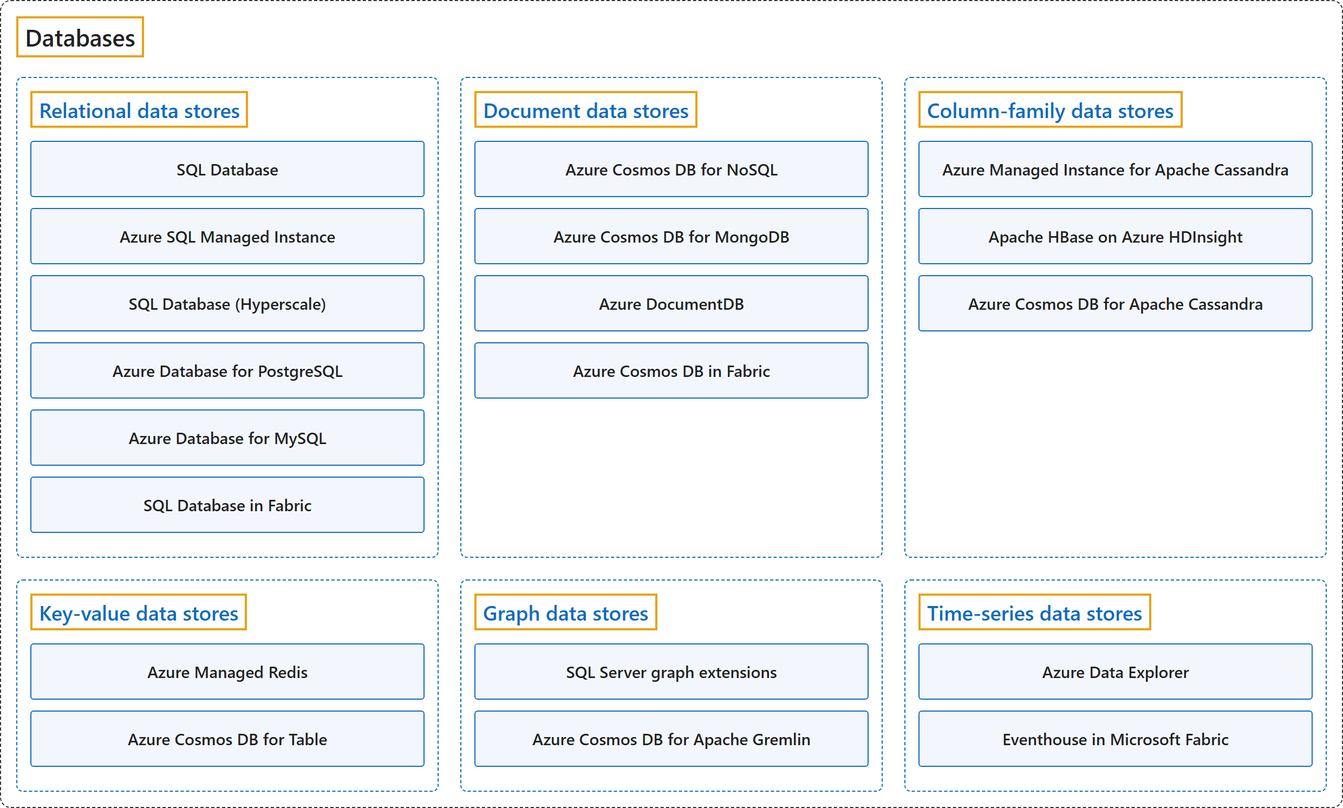
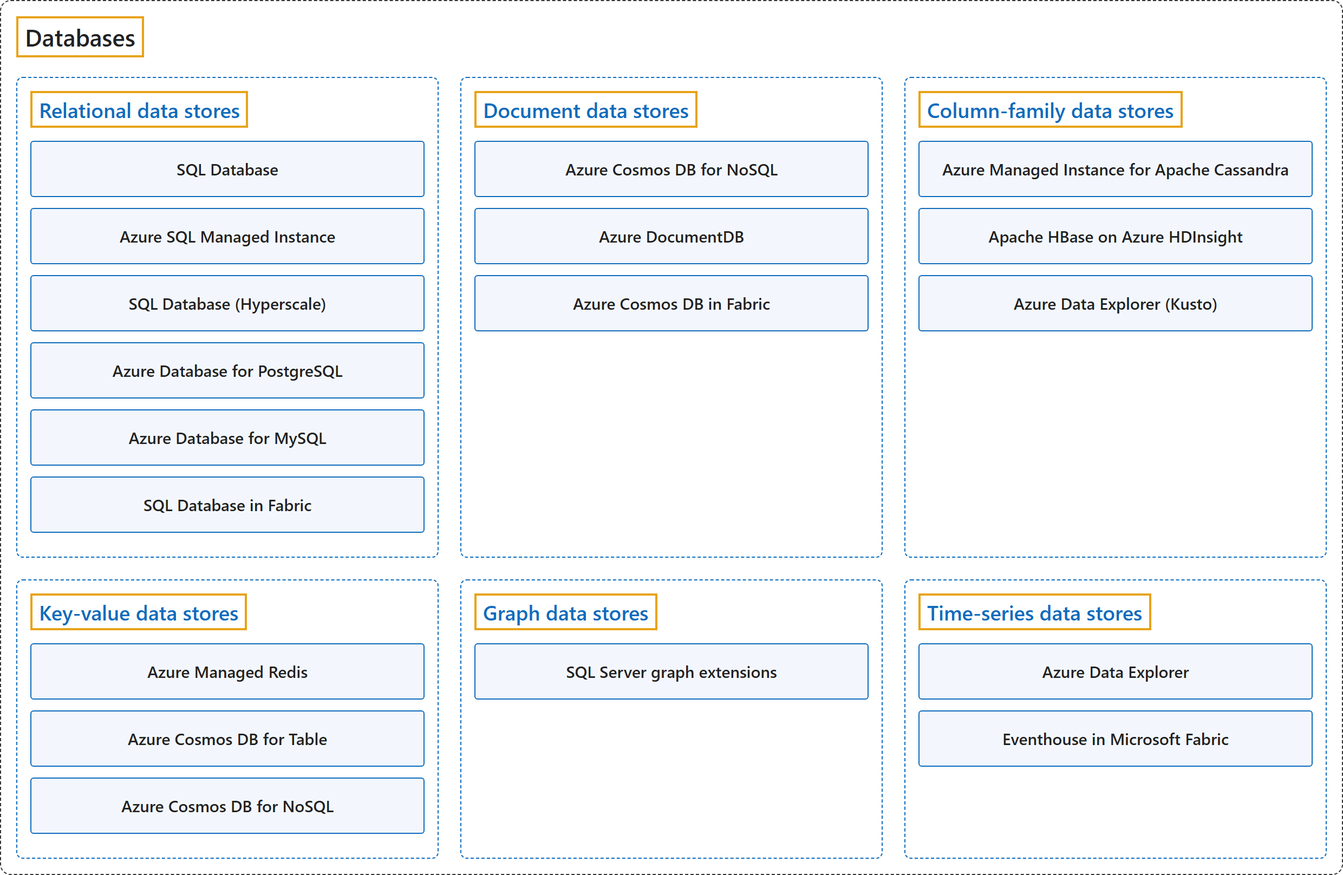
feat(azure): 9.1-9.6 Databases from the current Understand data models guide; Overview figure and README follow its service lists

diff --git a/figures/cloud/azure/databases/relational-data-stores.html b/figures/cloud/azure/databases/relational-data-stores.html
@@ -1,0 +1,28 @@
+<!doctype html>
+<html><head><meta charset="utf-8">
+<style>
+  body { margin: 0; background: #fff; font-family: "Segoe UI", sans-serif; }
+  .frame { display: inline-block; margin: 2px; padding: 14px 14px 14px; border: 1.5px dashed #333; border-radius: 10px; }
+  .title { display: inline-block; border: 2px solid #e8a317; padding: 2px 6px; font-size: 22px; font-weight: 600; color: #222; margin-bottom: 18px; }
+  .row { display: flex; gap: 14px; align-items: stretch; }
+  .frame > .col { width: 330px; gap: 0; }
+  .col { display: flex; flex-direction: column; gap: 14px; }
+  .col .group { flex: 1 0 auto; }
+  .group { min-width: 330px; border: 1.5px dashed #0f6cbd; border-radius: 6px; padding: 12px; box-sizing: border-box; }
+  .group .title { white-space: nowrap; color: #0f6cbd; font-size: 19px; margin-bottom: 12px; }
+  .item { border: 2px solid #e8a317; background: #f3f7fd; border-radius: 3px; height: 34px; margin-bottom: 8px;
+          display: flex; align-items: center; justify-content: center; font-size: 14px; font-weight: 600; text-align: center; padding: 0 6px; color: #222; }
+</style></head>
+<body>
+<div class="frame" id="fig">
+  <div class="title">Relational data stores</div>
+  <div class="col">
+    <div class="item">SQL Database</div>
+    <div class="item">Azure SQL Managed Instance</div>
+    <div class="item">SQL Database (Hyperscale)</div>
+    <div class="item">Azure Database for PostgreSQL</div>
+    <div class="item">Azure Database for MySQL</div>
+    <div class="item">SQL Database in Fabric</div>
+  </div>
+</div>
+</body></html>

diff --git a/figures/cloud/azure/databases/column-family-data-stores.html b/figures/cloud/azure/databases/column-family-data-stores.html
@@ -1,0 +1,25 @@
+<!doctype html>
+<html><head><meta charset="utf-8">
+<style>
+  body { margin: 0; background: #fff; font-family: "Segoe UI", sans-serif; }
+  .frame { display: inline-block; margin: 2px; padding: 14px 14px 14px; border: 1.5px dashed #333; border-radius: 10px; }
+  .title { display: inline-block; border: 2px solid #e8a317; padding: 2px 6px; font-size: 22px; font-weight: 600; color: #222; margin-bottom: 18px; }
+  .row { display: flex; gap: 14px; align-items: stretch; }
+  .frame > .col { width: 330px; gap: 0; }
+  .col { display: flex; flex-direction: column; gap: 14px; }
+  .col .group { flex: 1 0 auto; }
+  .group { min-width: 330px; border: 1.5px dashed #0f6cbd; border-radius: 6px; padding: 12px; box-sizing: border-box; }
+  .group .title { white-space: nowrap; color: #0f6cbd; font-size: 19px; margin-bottom: 12px; }
+  .item { border: 2px solid #e8a317; background: #f3f7fd; border-radius: 3px; height: 34px; margin-bottom: 8px;
+          display: flex; align-items: center; justify-content: center; font-size: 14px; font-weight: 600; text-align: center; padding: 0 6px; color: #222; }
+</style></head>
+<body>
+<div class="frame" id="fig">
+  <div class="title">Column-family data stores</div>
+  <div class="col">
+    <div class="item">Azure Managed Instance for Apache Cassandra</div>
+    <div class="item">Apache HBase on Azure HDInsight</div>
+    <div class="item">Azure Data Explorer (Kusto)</div>
+  </div>
+</div>
+</body></html>

diff --git a/figures/cloud/azure/databases/key-value-data-stores.html b/figures/cloud/azure/databases/key-value-data-stores.html
@@ -1,0 +1,25 @@
+<!doctype html>
+<html><head><meta charset="utf-8">
+<style>
+  body { margin: 0; background: #fff; font-family: "Segoe UI", sans-serif; }
+  .frame { display: inline-block; margin: 2px; padding: 14px 14px 14px; border: 1.5px dashed #333; border-radius: 10px; }
+  .title { display: inline-block; border: 2px solid #e8a317; padding: 2px 6px; font-size: 22px; font-weight: 600; color: #222; margin-bottom: 18px; }
+  .row { display: flex; gap: 14px; align-items: stretch; }
+  .frame > .col { width: 330px; gap: 0; }
+  .col { display: flex; flex-direction: column; gap: 14px; }
+  .col .group { flex: 1 0 auto; }
+  .group { min-width: 330px; border: 1.5px dashed #0f6cbd; border-radius: 6px; padding: 12px; box-sizing: border-box; }
+  .group .title { white-space: nowrap; color: #0f6cbd; font-size: 19px; margin-bottom: 12px; }
+  .item { border: 2px solid #e8a317; background: #f3f7fd; border-radius: 3px; height: 34px; margin-bottom: 8px;
+          display: flex; align-items: center; justify-content: center; font-size: 14px; font-weight: 600; text-align: center; padding: 0 6px; color: #222; }
+</style></head>
+<body>
+<div class="frame" id="fig">
+  <div class="title">Key-value data stores</div>
+  <div class="col">
+    <div class="item">Azure Managed Redis</div>
+    <div class="item">Azure Cosmos DB for Table</div>
+    <div class="item">Azure Cosmos DB for NoSQL</div>
+  </div>
+</div>
+</body></html>

diff --git a/figures/cloud/azure/databases/document-data-stores.html b/figures/cloud/azure/databases/document-data-stores.html
@@ -1,0 +1,25 @@
+<!doctype html>
+<html><head><meta charset="utf-8">
+<style>
+  body { margin: 0; background: #fff; font-family: "Segoe UI", sans-serif; }
+  .frame { display: inline-block; margin: 2px; padding: 14px 14px 14px; border: 1.5px dashed #333; border-radius: 10px; }
+  .title { display: inline-block; border: 2px solid #e8a317; padding: 2px 6px; font-size: 22px; font-weight: 600; color: #222; margin-bottom: 18px; }
+  .row { display: flex; gap: 14px; align-items: stretch; }
+  .frame > .col { width: 330px; gap: 0; }
+  .col { display: flex; flex-direction: column; gap: 14px; }
+  .col .group { flex: 1 0 auto; }
+  .group { min-width: 330px; border: 1.5px dashed #0f6cbd; border-radius: 6px; padding: 12px; box-sizing: border-box; }
+  .group .title { white-space: nowrap; color: #0f6cbd; font-size: 19px; margin-bottom: 12px; }
+  .item { border: 2px solid #e8a317; background: #f3f7fd; border-radius: 3px; height: 34px; margin-bottom: 8px;
+          display: flex; align-items: center; justify-content: center; font-size: 14px; font-weight: 600; text-align: center; padding: 0 6px; color: #222; }
+</style></head>
+<body>
+<div class="frame" id="fig">
+  <div class="title">Document data stores</div>
+  <div class="col">
+    <div class="item">Azure Cosmos DB for NoSQL</div>
+    <div class="item">Azure DocumentDB</div>
+    <div class="item">Azure Cosmos DB in Fabric</div>
+  </div>
+</div>
+</body></html>

diff --git a/figures/cloud/azure/databases/time-series-data-stores.html b/figures/cloud/azure/databases/time-series-data-stores.html
@@ -1,0 +1,24 @@
+<!doctype html>
+<html><head><meta charset="utf-8">
+<style>
+  body { margin: 0; background: #fff; font-family: "Segoe UI", sans-serif; }
+  .frame { display: inline-block; margin: 2px; padding: 14px 14px 14px; border: 1.5px dashed #333; border-radius: 10px; }
+  .title { display: inline-block; border: 2px solid #e8a317; padding: 2px 6px; font-size: 22px; font-weight: 600; color: #222; margin-bottom: 18px; }
+  .row { display: flex; gap: 14px; align-items: stretch; }
+  .frame > .col { width: 330px; gap: 0; }
+  .col { display: flex; flex-direction: column; gap: 14px; }
+  .col .group { flex: 1 0 auto; }
+  .group { min-width: 330px; border: 1.5px dashed #0f6cbd; border-radius: 6px; padding: 12px; box-sizing: border-box; }
+  .group .title { white-space: nowrap; color: #0f6cbd; font-size: 19px; margin-bottom: 12px; }
+  .item { border: 2px solid #e8a317; background: #f3f7fd; border-radius: 3px; height: 34px; margin-bottom: 8px;
+          display: flex; align-items: center; justify-content: center; font-size: 14px; font-weight: 600; text-align: center; padding: 0 6px; color: #222; }
+</style></head>
+<body>
+<div class="frame" id="fig">
+  <div class="title">Time-series data stores</div>
+  <div class="col">
+    <div class="item">Azure Data Explorer</div>
+    <div class="item">Eventhouse in Microsoft Fabric</div>
+  </div>
+</div>
+</body></html>

diff --git a/figures/cloud/azure/databases/graph-data-stores.html b/figures/cloud/azure/databases/graph-data-stores.html
@@ -1,0 +1,23 @@
+<!doctype html>
+<html><head><meta charset="utf-8">
+<style>
+  body { margin: 0; background: #fff; font-family: "Segoe UI", sans-serif; }
+  .frame { display: inline-block; margin: 2px; padding: 14px 14px 14px; border: 1.5px dashed #333; border-radius: 10px; }
+  .title { display: inline-block; border: 2px solid #e8a317; padding: 2px 6px; font-size: 22px; font-weight: 600; color: #222; margin-bottom: 18px; }
+  .row { display: flex; gap: 14px; align-items: stretch; }
+  .frame > .col { width: 330px; gap: 0; }
+  .col { display: flex; flex-direction: column; gap: 14px; }
+  .col .group { flex: 1 0 auto; }
+  .group { min-width: 330px; border: 1.5px dashed #0f6cbd; border-radius: 6px; padding: 12px; box-sizing: border-box; }
+  .group .title { white-space: nowrap; color: #0f6cbd; font-size: 19px; margin-bottom: 12px; }
+  .item { border: 2px solid #e8a317; background: #f3f7fd; border-radius: 3px; height: 34px; margin-bottom: 8px;
+          display: flex; align-items: center; justify-content: center; font-size: 14px; font-weight: 600; text-align: center; padding: 0 6px; color: #222; }
+</style></head>
+<body>
+<div class="frame" id="fig">
+  <div class="title">Graph data stores</div>
+  <div class="col">
+    <div class="item">SQL Server graph extensions</div>
+  </div>
+</div>
+</body></html>

diff --git a/figures/cloud/azure/databases/databases.html b/figures/cloud/azure/databases/databases.html
@@ -32,7 +32,6 @@
       <div class="group">
         <div class="title">Document data stores</div>
         <div class="item">Azure Cosmos DB for NoSQL</div>
-        <div class="item">Azure Cosmos DB for MongoDB</div>
         <div class="item">Azure DocumentDB</div>
         <div class="item">Azure Cosmos DB in Fabric</div>
       </div>
@@ -42,7 +41,7 @@
         <div class="title">Column-family data stores</div>
         <div class="item">Azure Managed Instance for Apache Cassandra</div>
         <div class="item">Apache HBase on Azure HDInsight</div>
-        <div class="item">Azure Cosmos DB for Apache Cassandra</div>
+        <div class="item">Azure Data Explorer (Kusto)</div>
       </div>
     </div>
   </div>
@@ -52,13 +51,13 @@
         <div class="title">Key-value data stores</div>
         <div class="item">Azure Managed Redis</div>
         <div class="item">Azure Cosmos DB for Table</div>
+        <div class="item">Azure Cosmos DB for NoSQL</div>
       </div>
     </div>
     <div class="col">
       <div class="group">
         <div class="title">Graph data stores</div>
         <div class="item">SQL Server graph extensions</div>
-        <div class="item">Azure Cosmos DB for Apache Gremlin</div>
       </div>
     </div>
     <div class="col">

diff --git a/docs/cloud/azure/databases/README.md b/docs/cloud/azure/databases/README.md
@@ -7,10 +7,10 @@ Follows `../README.md`. Figure on `index.md`: classification (see `../README.md`
 | No. | File | Title (group name in the figure) | Sources | Allowed sections (the groups of the sub-page figure, in figure order) |
 |---|---|---|---|---|
 | 9.1 | `relational-data-stores.md` | Relational data stores | [Understand data models: Relational data stores](https://learn.microsoft.com/en-us/azure/architecture/data-guide/technology-choices/understand-data-store-models#relational-data-stores) | 9.1.1 SQL Database, 9.1.2 Azure SQL Managed Instance, 9.1.3 SQL Database (Hyperscale), 9.1.4 Azure Database for PostgreSQL, 9.1.5 Azure Database for MySQL, 9.1.6 SQL Database in Fabric |
-| 9.2 | `document-data-stores.md` | Document data stores | [Understand data models: Document data stores](https://learn.microsoft.com/en-us/azure/architecture/data-guide/technology-choices/understand-data-store-models#document-data-stores-); [Azure Cosmos DB overview](https://learn.microsoft.com/en-us/azure/cosmos-db/overview) | 9.2.1 Azure Cosmos DB for NoSQL, 9.2.2 Azure Cosmos DB for MongoDB, 9.2.3 Azure DocumentDB, 9.2.4 Azure Cosmos DB in Fabric |
-| 9.3 | `column-family-data-stores.md` | Column-family data stores | [Understand data models: Column-family data stores](https://learn.microsoft.com/en-us/azure/architecture/data-guide/technology-choices/understand-data-store-models#column-family-data-stores-); [Azure Cosmos DB overview](https://learn.microsoft.com/en-us/azure/cosmos-db/overview) | 9.3.1 Azure Managed Instance for Apache Cassandra, 9.3.2 Apache HBase on Azure HDInsight, 9.3.3 Azure Cosmos DB for Apache Cassandra |
-| 9.4 | `key-value-data-stores.md` | Key-value data stores | [Understand data models: Key-value data stores](https://learn.microsoft.com/en-us/azure/architecture/data-guide/technology-choices/understand-data-store-models#key-value-data-stores-) | 9.4.1 Azure Managed Redis, 9.4.2 Azure Cosmos DB for Table |
-| 9.5 | `graph-data-stores.md` | Graph data stores | [Understand data models: Graph data stores](https://learn.microsoft.com/en-us/azure/architecture/data-guide/technology-choices/understand-data-store-models#graph-data-stores-); [Azure Cosmos DB overview](https://learn.microsoft.com/en-us/azure/cosmos-db/overview) | 9.5.1 SQL Server graph extensions, 9.5.2 Azure Cosmos DB for Apache Gremlin |
+| 9.2 | `document-data-stores.md` | Document data stores | [Understand data models: Document data stores](https://learn.microsoft.com/en-us/azure/architecture/data-guide/technology-choices/understand-data-store-models#document-data-stores-); [Azure Cosmos DB overview](https://learn.microsoft.com/en-us/azure/cosmos-db/overview) | 9.2.1 Azure Cosmos DB for NoSQL, 9.2.2 Azure DocumentDB, 9.2.3 Azure Cosmos DB in Fabric |
+| 9.3 | `column-family-data-stores.md` | Column-family data stores | [Understand data models: Column-family data stores](https://learn.microsoft.com/en-us/azure/architecture/data-guide/technology-choices/understand-data-store-models#column-family-data-stores-); [Azure Cosmos DB overview](https://learn.microsoft.com/en-us/azure/cosmos-db/overview) | 9.3.1 Azure Managed Instance for Apache Cassandra, 9.3.2 Apache HBase on Azure HDInsight, 9.3.3 Azure Data Explorer (Kusto) |
+| 9.4 | `key-value-data-stores.md` | Key-value data stores | [Understand data models: Key-value data stores](https://learn.microsoft.com/en-us/azure/architecture/data-guide/technology-choices/understand-data-store-models#key-value-data-stores-) | 9.4.1 Azure Managed Redis, 9.4.2 Azure Cosmos DB for Table, 9.4.3 Azure Cosmos DB for NoSQL |
+| 9.5 | `graph-data-stores.md` | Graph data stores | [Understand data models: Graph data stores](https://learn.microsoft.com/en-us/azure/architecture/data-guide/technology-choices/understand-data-store-models#graph-data-stores-); [Azure Cosmos DB overview](https://learn.microsoft.com/en-us/azure/cosmos-db/overview) | 9.5.1 SQL Server graph extensions |
 | 9.6 | `time-series-data-stores.md` | Time-series data stores | [Understand data models: Time-series data stores](https://learn.microsoft.com/en-us/azure/architecture/data-guide/technology-choices/understand-data-store-models#time-series-data-stores-) | 9.6.1 Azure Data Explorer, 9.6.2 Eventhouse in Microsoft Fabric |
 
-Azure Cosmos DB itself (account, database, container, item, consistency levels) is H3 inside 9.2.1 Azure Cosmos DB for NoSQL; the other Cosmos DB APIs link there. Object, search, vector and analytics data stores, in the same guide, belong to 6. Storage, 9. Analytics and 11. AI + Machine Learning. Azure Data Explorer is defined in `../analytics/` (11.5.2); 9.6.1 links there.
+Boxes follow the current "Select an Azure service" lists of Understand data models (checked 2026-10-27); each row quotes the guide. A service listed under two models (Azure Cosmos DB for NoSQL, Azure Data Explorer) has a full row in each. Object, search, vector and analytics data stores, in the same guide, belong to 8. Storage, 11. Analytics and 13. AI + Machine Learning.

diff --git a/docs/cloud/azure/databases/relational-data-stores.md b/docs/cloud/azure/databases/relational-data-stores.md
@@ -1,11 +1,26 @@
 ---
 title: "9.1 Relational data stores"
 description: "Microsoft Azure, 9.1 Relational data stores: SQL Database, Azure SQL Managed Instance, SQL Database (Hyperscale), Azure Database for PostgreSQL, Azure Database for MySQL, SQL Database in Fabric."
-ms.date: 2026-10-24
+ms.date: 2026-10-27
 ---
 
 # 9.1 Relational data stores
 
-Sources: [Understand data models: Relational data stores](https://learn.microsoft.com/en-us/azure/architecture/data-guide/technology-choices/understand-data-store-models#relational-data-stores).
+## Classification
 
-Not written yet.
+![Relational data stores, 6 Azure services from "Select an Azure service for relational data stores" in Understand data models: SQL Database, Azure SQL Managed Instance, SQL Database (Hyperscale), Azure Database for PostgreSQL, Azure Database for MySQL, SQL Database in Fabric.](media/relational-data-stores.png)
+
+## Glossary
+
+| Term | Definition | 中文翻译 | Source |
+|---|---|---|---|
+| **SQL Database**<br>SQL 数据库 | "SQL Database is a **managed relational database** for **modern cloud applications** that use the **SQL Server engine**." | SQL 数据库是一种**托管关系数据库**，面向**现代云应用程序**，使用的是 **SQL Server 引擎**。 | [Microsoft, 2025, "Select an Azure service for relational data stores" section, list item 1](https://learn.microsoft.com/en-us/azure/architecture/data-guide/technology-choices/understand-data-store-models#:~:text=is%20a%20managed%20relational%20database%20for%20modern%20cloud%20applications) |
+| **Azure SQL Managed Instance**<br>Azure SQL 托管实例 | "Azure SQL Managed Instance is a **near-complete SQL Server environment in the cloud** that's ideal for **lift-and-shift migrations**." | Azure SQL 托管实例是**云中近乎完整的 SQL Server 环境**，非常适合**直接迁移**（lift-and-shift）。 | [Microsoft, 2025, "Select an Azure service for relational data stores" section, list item 2](https://learn.microsoft.com/en-us/azure/architecture/data-guide/technology-choices/understand-data-store-models#:~:text=is%20a%20near-complete%20SQL%20Server%20environment%20in%20the%20cloud) |
+| **SQL Database (Hyperscale)**<br>SQL 数据库（超大规模） | "SQL Database (Hyperscale) is a **highly scalable SQL tier** designed for **massive workloads** with fast autoscaling and rapid backups." | SQL 数据库（超大规模）是一种**高度可扩展的 SQL 层级**，专为**海量工作负载**设计，具有快速自动缩放和快速备份能力。 | [Microsoft, 2025, "Select an Azure service for relational data stores" section, list item 3](https://learn.microsoft.com/en-us/azure/architecture/data-guide/technology-choices/understand-data-store-models#:~:text=is%20a%20highly%20scalable%20SQL%20tier%20designed%20for%20massive%20workloads) |
+| **Azure Database for PostgreSQL**<br>Azure Database for PostgreSQL | "Azure Database for PostgreSQL is a **managed PostgreSQL service** that supports **open-source extensions** and **flexible deployment options**." | Azure Database for PostgreSQL 是一种**托管 PostgreSQL 服务**，支持**开源扩展**和**灵活的部署选项**。 | [Microsoft, 2025, "Select an Azure service for relational data stores" section, list item 4](https://learn.microsoft.com/en-us/azure/architecture/data-guide/technology-choices/understand-data-store-models#:~:text=is%20a%20managed%20PostgreSQL%20service%20that%20supports%20open-source%20extensions) |
+| **Azure Database for MySQL**<br>Azure Database for MySQL | "Azure Database for MySQL is a **managed MySQL database** for **web apps and open-source workloads**." | Azure Database for MySQL 是一种**托管 MySQL 数据库**，用于 **Web 应用和开源工作负载**。 | [Microsoft, 2025, "Select an Azure service for relational data stores" section, list item 5](https://learn.microsoft.com/en-us/azure/architecture/data-guide/technology-choices/understand-data-store-models#:~:text=is%20a%20managed%20MySQL%20database%20for%20web%20apps) |
+| **SQL Database in Fabric**<br>Fabric 中的 SQL 数据库 | "SQL Database in Fabric is a **developer-friendly transactional database**, based on SQL Database, that you can use to **easily create an operational database in Fabric**." | Fabric 中的 SQL 数据库是一种**对开发人员友好的事务数据库**，基于 SQL 数据库，你可以用它**在 Fabric 中轻松创建操作数据库**。 | [Microsoft, 2025, "Select an Azure service for relational data stores" section, list item 6](https://learn.microsoft.com/en-us/azure/architecture/data-guide/technology-choices/understand-data-store-models#:~:text=is%20a%20developer-friendly%20transactional%20database) |
+
+## References
+
+- Microsoft. (2025, September 23). *Understand data models*. Azure Architecture Center. https://learn.microsoft.com/en-us/azure/architecture/data-guide/technology-choices/understand-data-store-models

diff --git a/docs/cloud/azure/databases/column-family-data-stores.md b/docs/cloud/azure/databases/column-family-data-stores.md
@@ -1,11 +1,23 @@
 ---
 title: "9.3 Column-family data stores"
-description: "Microsoft Azure, 9.3 Column-family data stores: Azure Managed Instance for Apache Cassandra, Apache HBase on Azure HDInsight, Azure Cosmos DB for Apache Cassandra."
-ms.date: 2026-10-24
+description: "Microsoft Azure, 9.3 Column-family data stores: Azure Managed Instance for Apache Cassandra, Apache HBase on Azure HDInsight, Azure Data Explorer (Kusto)."
+ms.date: 2026-10-27
 ---
 
 # 9.3 Column-family data stores
 
-Sources: [Understand data models: Column-family data stores](https://learn.microsoft.com/en-us/azure/architecture/data-guide/technology-choices/understand-data-store-models#column-family-data-stores-); [Azure Cosmos DB overview](https://learn.microsoft.com/en-us/azure/cosmos-db/overview).
+## Classification
 
-Not written yet.
+![Column-family data stores, 3 Azure services from "Select an Azure service for column-family data stores" in Understand data models: Azure Managed Instance for Apache Cassandra, Apache HBase on Azure HDInsight, Azure Data Explorer (Kusto).](media/column-family-data-stores.png)
+
+## Glossary
+
+| Term | Definition | 中文翻译 | Source |
+|---|---|---|---|
+| **Azure Managed Instance for Apache Cassandra**<br>Azure Managed Instance for Apache Cassandra | "Azure Managed Instance for Apache Cassandra is a **managed service** for **open-source Apache Cassandra clusters**." | Azure Managed Instance for Apache Cassandra 是一项**托管服务**，用于**开源 Apache Cassandra 群集**。 | [Microsoft, 2025, "Select an Azure service for column-family data stores" section, list item 1](https://learn.microsoft.com/en-us/azure/architecture/data-guide/technology-choices/understand-data-store-models#:~:text=is%20a%20managed%20service%20for%20open-source%20Apache%20Cassandra%20clusters) |
+| **Apache HBase on Azure HDInsight**<br>Azure HDInsight 上的 Apache HBase | "Apache HBase on Azure HDInsight is a **scalable NoSQL store for big data workloads** built on **Apache HBase and the Hadoop ecosystem**." | Azure HDInsight 上的 Apache HBase 是一种**面向大数据工作负载的可扩展 NoSQL 存储**，构建在 **Apache HBase 和 Hadoop 生态系统**之上。 | [Microsoft, 2025, "Select an Azure service for column-family data stores" section, list item 2](https://learn.microsoft.com/en-us/azure/architecture/data-guide/technology-choices/understand-data-store-models#:~:text=is%20a%20scalable%20NoSQL%20store%20for%20big%20data%20workloads) |
+| **Azure Data Explorer (Kusto)**<br>Azure 数据资源管理器（Kusto） | "Azure Data Explorer (Kusto) is an **analytics engine for telemetry, logs, and time-series data** that uses **Kusto Query Language (KQL)**." | Azure 数据资源管理器（Kusto）是一种**用于遥测、日志和时间序列数据的分析引擎**，使用 **Kusto 查询语言 (KQL)**。 | [Microsoft, 2025, "Select an Azure service for column-family data stores" section, list item 3](https://learn.microsoft.com/en-us/azure/architecture/data-guide/technology-choices/understand-data-store-models#:~:text=is%20an%20analytics%20engine%20for%20telemetry%2C%20logs%2C%20and%20time-series%20data) |
+
+## References
+
+- Microsoft. (2025, September 23). *Understand data models*. Azure Architecture Center. https://learn.microsoft.com/en-us/azure/architecture/data-guide/technology-choices/understand-data-store-models

diff --git a/docs/cloud/azure/databases/document-data-stores.md b/docs/cloud/azure/databases/document-data-stores.md
@@ -1,11 +1,23 @@
 ---
 title: "9.2 Document data stores"
-description: "Microsoft Azure, 9.2 Document data stores: Azure Cosmos DB for NoSQL, Azure Cosmos DB for MongoDB, Azure DocumentDB, Azure Cosmos DB in Fabric."
-ms.date: 2026-10-24
+description: "Microsoft Azure, 9.2 Document data stores: Azure Cosmos DB for NoSQL, Azure DocumentDB, Azure Cosmos DB in Fabric."
+ms.date: 2026-10-27
 ---
 
 # 9.2 Document data stores
 
-Sources: [Understand data models: Document data stores](https://learn.microsoft.com/en-us/azure/architecture/data-guide/technology-choices/understand-data-store-models#document-data-stores-); [Azure Cosmos DB overview](https://learn.microsoft.com/en-us/azure/cosmos-db/overview).
+## Classification
 
-Not written yet.
+![Document data stores, 3 Azure services from "Select an Azure service for document data stores" in Understand data models: Azure Cosmos DB for NoSQL, Azure DocumentDB, Azure Cosmos DB in Fabric.](media/document-data-stores.png)
+
+## Glossary
+
+| Term | Definition | 中文翻译 | Source |
+|---|---|---|---|
+| **Azure Cosmos DB for NoSQL**<br>Azure Cosmos DB for NoSQL | "Azure Cosmos DB for NoSQL is a **schema-less, multi-region NoSQL database** that has **low-latency reads and writes**." | Azure Cosmos DB for NoSQL 是一种**无架构、多区域的 NoSQL 数据库**，具有**低延迟的读写**。 | [Microsoft, 2025, "Select an Azure service for document data stores" section, list item 1](https://learn.microsoft.com/en-us/azure/architecture/data-guide/technology-choices/understand-data-store-models#:~:text=is%20a%20schema-less%2C%20multi-region%20NoSQL%20database) |
+| **Azure DocumentDB**<br>Azure DocumentDB | "Azure DocumentDB is a **globally distributed database** that has **MongoDB wire protocol compatibility** and autoscaling." | Azure DocumentDB 是一种**全球分布式数据库**，具有 **MongoDB 线路协议兼容性**和自动缩放功能。 | [Microsoft, 2025, "Select an Azure service for document data stores" section, list item 2](https://learn.microsoft.com/en-us/azure/architecture/data-guide/technology-choices/understand-data-store-models#:~:text=is%20a%20globally%20distributed%20database%20that%20has%20MongoDB%20wire%20protocol%20compatibility) |
+| **Azure Cosmos DB in Fabric**<br>Fabric 中的 Azure Cosmos DB | "Azure Cosmos DB in Fabric is a **schema-less, NoSQL database** that has low-latency reads and writes, simplified management, and **built-in Fabric analytics**." | Fabric 中的 Azure Cosmos DB 是一种**无架构的 NoSQL 数据库**，具有低延迟读写、简化的管理和**内置的 Fabric 分析**。 | [Microsoft, 2025, "Select an Azure service for document data stores" section, list item 3](https://learn.microsoft.com/en-us/azure/architecture/data-guide/technology-choices/understand-data-store-models#:~:text=is%20a%20schema-less%2C%20NoSQL%20database%20that%20has%20low-latency%20reads%20and%20writes%2C%20simplified%20management) |
+
+## References
+
+- Microsoft. (2025, September 23). *Understand data models*. Azure Architecture Center. https://learn.microsoft.com/en-us/azure/architecture/data-guide/technology-choices/understand-data-store-models

diff --git a/docs/cloud/azure/databases/key-value-data-stores.md b/docs/cloud/azure/databases/key-value-data-stores.md
@@ -1,11 +1,23 @@
 ---
 title: "9.4 Key-value data stores"
-description: "Microsoft Azure, 9.4 Key-value data stores: Azure Managed Redis, Azure Cosmos DB for Table."
-ms.date: 2026-10-24
+description: "Microsoft Azure, 9.4 Key-value data stores: Azure Managed Redis, Azure Cosmos DB for Table, Azure Cosmos DB for NoSQL."
+ms.date: 2026-10-27
 ---
 
 # 9.4 Key-value data stores
 
-Sources: [Understand data models: Key-value data stores](https://learn.microsoft.com/en-us/azure/architecture/data-guide/technology-choices/understand-data-store-models#key-value-data-stores-).
+## Classification
 
-Not written yet.
+![Key-value data stores, 3 Azure services from "Select an Azure service for key-value data stores" in Understand data models: Azure Managed Redis, Azure Cosmos DB for Table, Azure Cosmos DB for NoSQL.](media/key-value-data-stores.png)
+
+## Glossary
+
+| Term | Definition | 中文翻译 | Source |
+|---|---|---|---|
+| **Azure Managed Redis**<br>Azure 托管 Redis | "Azure Managed Redis is a **managed in-memory data store** based on the latest Redis Enterprise version that provides **low latency and high throughput**." | Azure 托管 Redis 是一种**托管的内存数据存储**，基于最新的 Redis Enterprise 版本，提供**低延迟和高吞吐量**。 | [Microsoft, 2025, "Select an Azure service for key-value data stores" section, list item 1](https://learn.microsoft.com/en-us/azure/architecture/data-guide/technology-choices/understand-data-store-models#:~:text=is%20a%20managed%20in-memory%20data%20store) |
+| **Azure Cosmos DB for Table**<br>Azure Cosmos DB for Table | "Azure Cosmos DB for Table is a **key-value store** optimized for **fast access to structured NoSQL data**." | Azure Cosmos DB for Table 是一种**键值存储**，针对**快速访问结构化 NoSQL 数据**进行了优化。 | [Microsoft, 2025, "Select an Azure service for key-value data stores" section, list item 2](https://learn.microsoft.com/en-us/azure/architecture/data-guide/technology-choices/understand-data-store-models#:~:text=is%20a%20key-value%20store%20optimized%20for%20fast%20access) |
+| **Azure Cosmos DB for NoSQL**<br>Azure Cosmos DB for NoSQL | "Azure Cosmos DB for NoSQL is a **document data store** that's optimized for **fast access to structured NoSQL data** and provides **horizontal scalability**." | Azure Cosmos DB for NoSQL 是一种**文档数据存储**，针对**快速访问结构化 NoSQL 数据**进行了优化，并提供**水平可伸缩性**。 | [Microsoft, 2025, "Select an Azure service for key-value data stores" section, list item 3](https://learn.microsoft.com/en-us/azure/architecture/data-guide/technology-choices/understand-data-store-models#:~:text=is%20a%20document%20data%20store%20that) |
+
+## References
+
+- Microsoft. (2025, September 23). *Understand data models*. Azure Architecture Center. https://learn.microsoft.com/en-us/azure/architecture/data-guide/technology-choices/understand-data-store-models
